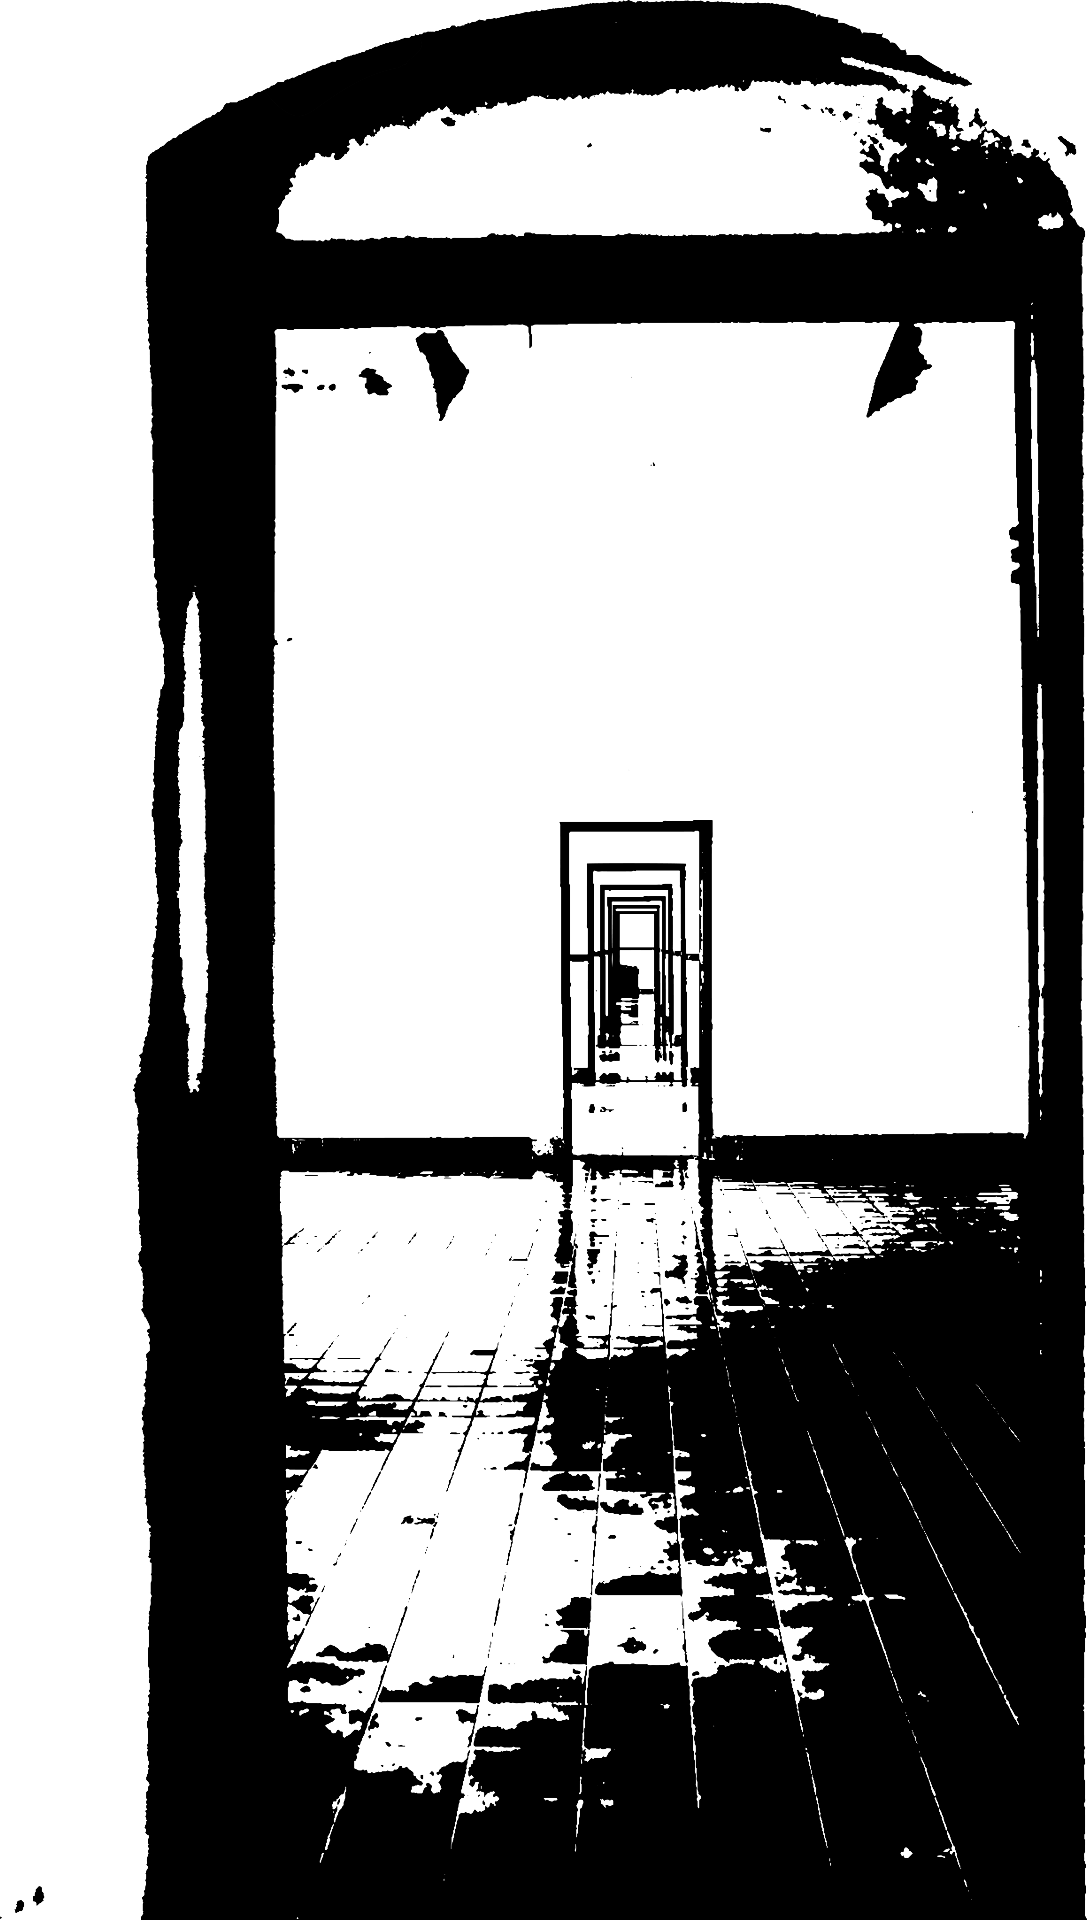
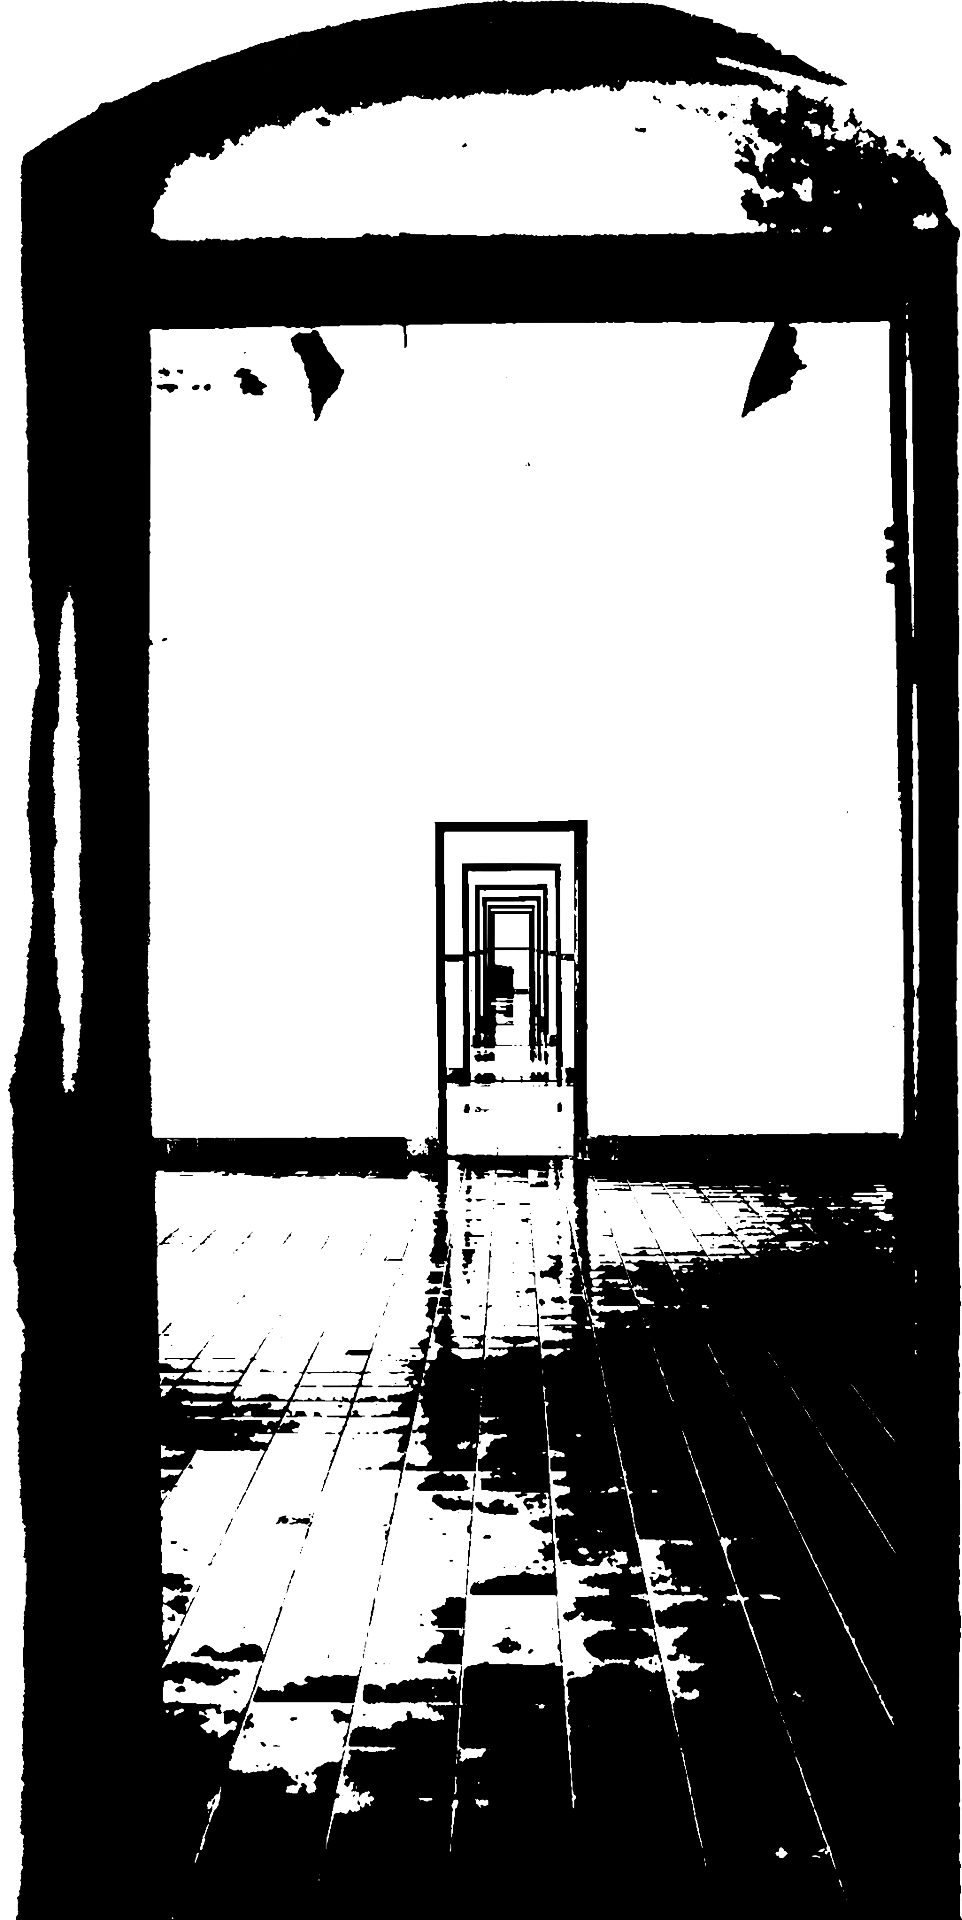
added responsive design to welcome page, added collapsable navbar

diff --git a/styles/index.css b/styles/index.css
@@ -8,8 +8,10 @@
 }
 
 .welcomeText p{
+    font-family: 'Arapey', serif;
+    font-size: 1.2em;
     margin-bottom:2.5em;
-    margin-left: .5em;
+    margin-left: 1.5em;
     margin-right: .5em;
 }
 
@@ -20,9 +22,9 @@
 
 .doorway{
     display:block;
-    width:400px;
+    width:350px;
     height:700px;
-    margin-left: 30px;
+    margin-left: 100px;
     position:absolute;
 }
 
@@ -30,7 +32,7 @@
     display: block;
     width:300px;
     height:600px;
-    margin-left: 120px;
+    margin-left: 140px;
     transition: 0.3s ease;
 }
 
@@ -46,6 +48,7 @@
 
 .navigation a{
     margin-bottom: 2em;
+    z-index: 1;
 }
 
 .plant{
@@ -53,6 +56,7 @@
     right:5px;
     bottom:0;
     height: 70%;
+    z-index: 0;
 }
 .plant:hover{
     cursor:pointer;
@@ -89,7 +93,110 @@
     z-index: -1;
     object-fit:cover;
   }
-
+  .navIcon{
+    display:none;
+  }
   .hidden{
       display:none;
   }
+
+  @media (max-width: 1200px) {  
+    .doorway{
+        margin-left: 40px;
+        width:300px;
+        height:600px;
+    }
+    .doorColor{
+        margin-left: 80px;
+        width:250px;
+        height:500px;
+    }
+    .columnOne{
+        justify-content:end;
+        margin-bottom:50px;
+      }
+  }
+
+  @media (max-width: 950px) {  
+    .columnOne{
+        justify-content:end;
+        margin-bottom:50px;
+      }
+    .columnThree{
+        justify-content:start;
+      }
+    .welcomeText p{
+        font-size: 17px;
+          margin-left:.5em;
+      }
+    .navigation a{
+        font-size: 20px;
+        margin-top: 1em;
+        margin-bottom: 1em;
+    }
+    .doorway{
+        margin-left: 0px;
+    }
+    .doorColor{
+        margin-left: 40px;
+    }
+  }
+
+  @media (max-width: 750px){
+    .plant{
+        display:none;
+    }
+    .birds{
+        display:none;
+    }
+    .container{
+        flex-direction: column-reverse;
+        justify-content: flex-end;
+    }
+    .navIcon{
+        display:block;
+    }
+    .navigation a:not(:first-child){
+        display:none;
+    }
+    .navigation.responsive {
+        position: absolute;
+        transition: 0.3s ease;
+        background-color: white;
+    }
+    .navigation.responsive a.navIcon {
+        top: 0;
+    }
+    .navigation.responsive a {
+      display: block;
+    }
+    .doorway{
+        margin-left: 0px;
+        width:170px;
+        height:330px;
+        position:absolute;
+        bottom:0;
+        z-index: 0;
+    }
+    .doorColor{
+        width:140px;
+        height:280px;
+        position:absolute;
+        margin-right:20px;
+        bottom:0;
+        z-index: -1;
+    }
+    .column{
+          align-items:center;
+          width:100%;
+    }
+    .columnThree{
+        height:100px;
+    }
+    .welcomeText p{
+        margin-top:20px;
+        margin-bottom:20px;
+        font-size:16px;
+        text-align:center;
+    }
+}

diff --git a/index.html b/index.html
@@ -5,6 +5,9 @@
     <meta charset="UTF-8">
     <meta http-equiv="X-UA-Compatible" content="IE=edge">
     <meta name="viewport" content="width=device-width, initial-scale=1.0">
+    <style>
+        @import url('https://fonts.googleapis.com/css2?family=Arapey&family=Stardos+Stencil&family=Xanh+Mono&display=swap');
+    </style>
     <link rel="stylesheet" href="./styles/reset.css">
     <link rel="stylesheet" href="./styles/index.css">
     <title>Welcome</title>
@@ -22,9 +25,9 @@
             <img class="birds" onclick="cloudVideo()" src="./images/birds.png" alt="birds">
             <section class="welcomeText">
                 <p>Hello and welcome to my site</p>
-                <p> My name is Zale</p>
-                <p> I am a web developer, artist, and musician</p>
-                <p> This site showcases some of the things that I have created</p>
+                <p>My name is Zale</p>
+                <p>I am a web developer, artist, and musician</p>
+                <p>This site showcases some of the things that I have created</p>
             </section>
         </div>
         <div class="column columnTwo">
@@ -32,7 +35,10 @@
             <div class="doorColor"></div>
         </div>
         <div class="column columnThree">
-            <section class="navigation">
+            <nav class="navigation" id="navBar">
+                <a href="javascript:void(0);" class="navIcon" onclick="openNav()">
+                    <img src="./images/nav-icon.png" onclick="doorColor('rgba(127, 255, 0, 0.5)')" alt="icon">
+                </a>
                 <a onmouseenter="doorColor('rgb(255,255,0, 0.5)')" onmouseleave="doorColor('transparent')"
                     href="index.html">welcome</a>
                 <a onmouseenter="doorColor('rgb(127, 255, 212, 0.5)')" onmouseleave="doorColor('transparent')"
@@ -41,7 +47,7 @@
                     href="./views/music.html">music</a>
                 <a onmouseenter="doorColor('rgba(127, 255, 0, 0.5)')" onmouseleave="doorColor('transparent')"
                     href="./views/connect.html">connect</a>
-            </section>
+            </nav>
             <img class="plant" onclick="plantVideo()" src="./images/plants.png" alt="plant">
         </div>
     </main>

diff --git a/scripts/index.js b/scripts/index.js
@@ -18,3 +18,21 @@ function cloudVideo() {
         plantVid.classList.add('hidden');
     }
 }
+
+function showmenu() {
+    var x = document.getElementById('myUL');
+    if (x.style.display == 'none') {
+        x.style.display = 'block';
+    } else {
+        x.style.display = 'none';
+    }
+}
+
+function openNav() {
+    let nav = document.getElementById("navBar");
+    if (nav.className === "navigation") {
+        nav.className += " responsive";
+    } else {
+        nav.className = "navigation";
+    }
+}

diff --git a/views/music.html b/views/music.html
@@ -5,6 +5,9 @@
     <meta charset="UTF-8">
     <meta http-equiv="X-UA-Compatible" content="IE=edge">
     <meta name="viewport" content="width=device-width, initial-scale=1.0">
+    <style>
+        @import url('https://fonts.googleapis.com/css2?family=Arapey&family=Stardos+Stencil&family=Xanh+Mono&display=swap');
+    </style>
     <link rel="stylesheet" href="../styles/reset.css">
     <link rel="stylesheet" href="../styles/music.css">
     <title>Music</title>

diff --git a/views/art.html b/views/art.html
@@ -5,6 +5,9 @@
     <meta charset="UTF-8">
     <meta http-equiv="X-UA-Compatible" content="IE=edge">
     <meta name="viewport" content="width=device-width, initial-scale=1.0">
+    <style>
+        @import url('https://fonts.googleapis.com/css2?family=Arapey&family=Stardos+Stencil&family=Xanh+Mono&display=swap');
+    </style>
     <link rel="stylesheet" href="../styles/reset.css">
     <link rel="stylesheet" href="../styles/art.css">
     <title>Art</title>

diff --git a/styles/reset.css b/styles/reset.css
@@ -49,6 +49,8 @@ table {
 	border-spacing: 0;
 }
 
+@import url('https://fonts.googleapis.com/css2?family=Arapey&family=Stardos+Stencil&family=Xanh+Mono&display=swap');
+
 .container{
     display:flex;
     width:100vw;
@@ -63,6 +65,10 @@ table {
 
 .row{
 	display:flex;
+}
+
+a {
+	font-family: 'Xanh Mono', monospace;
 }
 
 a, a:visited, a:hover, a:active {

diff --git a/styles/music.css b/styles/music.css
@@ -18,9 +18,13 @@
     font-size: 2em;
 }
 
+.musicSelection a, p{
+    font-family: 'Stardos Stencil', cursive;
+}
+
 .rowOne{
     justify-content: center;
-    margin-bottom:1.5em;
+    margin-bottom:2.5em;
 }
 
 .rowTwo{

diff --git a/styles/art.css b/styles/art.css
@@ -34,8 +34,9 @@
 }
 
 .scroller p{
+  font-family: 'Stardos Stencil', cursive;
     font-size:1.5em;
-    margin-top:25px;
+    margin-top:28px;
     margin-bottom:46px;
 }
 
